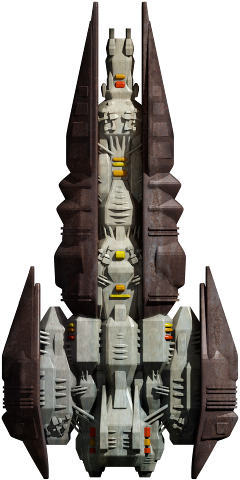
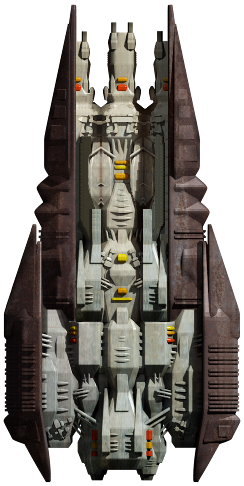
feat(ships): New Amidala sprite, courtesy of Zoura

diff --git a/README.md b/README.md
@@ -87,6 +87,9 @@ Vyacheslav Argenberg's website: http://vascoplanet.com / http://vascoplanet.ru
 - Pelitol Cluster nebula image: *NASA, ESA, J. Hester and A. Loll (Arizona State University)*, [original](https://en.wikipedia.org/wiki/File:Crab_Nebula.jpg)
 </details>
 
+### Ship sprites
+- Amidala, 0.10.14 and later: Zoura ([zoura3025](https://steamcommunity.com/profiles/76561198064308674) on Steam, Zoura#7972 on Discord)
+
 ### Planet sprites
 Modified earth sprite, generated by a Python GIMP script. Source image of sprite as stated in "Author" field on Commons: NASA’s Terra satellite for the MODIS imageries, combined by Wikipedia editor "Meow". Credit: NASA Goddard Space Flight Center Image by Reto Stöckli (land surface, shallow water, clouds). Enhancements by Robert Simmon (ocean color, compositing, 3D globes, animation). Data and technical support: MODIS Land Group; MODIS Science Data Support Team; MODIS Atmosphere Group; MODIS Ocean Group Additional data: USGS EROS Data Center (topography); USGS Terrestrial Remote Sensing Flagstaff Field Center (Antarctica); Defense Meteorological Satellite Program (city lights).
 
